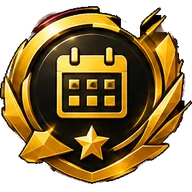
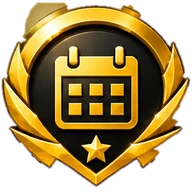
Новые картинки медалей
Claude-Session: https://claude.ai/code/session_01VPT8fuKy7RYZd7Y4zjMWjz

diff --git a/index.html b/index.html
@@ -2182,7 +2182,7 @@ function medalTitle(m) {
 // картинки медалей лежат в папке medals/
 function medalSVG(m, size = 34) {
   const key = m.k === "h" || m.k === "x" ? m.k : m.k + m.p;
-  return `<img class="medal" src="medals/${key}.webp" width="${size}" height="${size}" alt="" decoding="async">`;
+  return `<img class="medal" src="medals/${key}.webp?v=2" width="${size}" height="${size}" alt="" decoding="async">`;
 }
 const medalCounts = list => { const c = { dg: 0, ds: 0, db: 0, wg: 0, ws: 0, wb: 0, mg: 0, ms: 0, mb: 0, h: 0, x: 0 }; for (const m of list) { if (m.k === "h" || m.k === "x") c[m.k]++; else c[m.k + "gsb"[m.p - 1]]++; } return c; };
 let medalsBusy = false;

diff --git a/sw.js b/sw.js
@@ -1,5 +1,5 @@
 // Офлайн-режим: сначала сеть (чтобы сразу видеть обновления), без сети — из кэша.
-const CACHE = "formulograf-v5";
+const CACHE = "formulograf-v6";
 const CORE = ["./", "index.html", "manifest.webmanifest", "icon-180.png", "icon-192.png", "icon-512.png"];
 self.addEventListener("install", e => { e.waitUntil(caches.open(CACHE).then(c => c.addAll(CORE))); self.skipWaiting(); });
 self.addEventListener("activate", e => {
